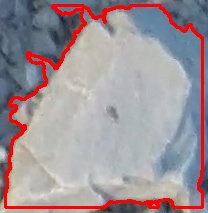
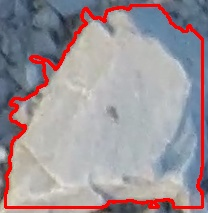
-

diff --git a/src/helpers.py b/src/helpers.py
@@ -51,9 +51,9 @@ def BrightnessAndContrastAuto(im_source, clipHistPercent=0):
     return dst
 
 
-def MorphClose(im_source, minThickess):
-    size = int(minThickess / 2)
-    size = 5
+def MorphClose(im_source, size):
+    # size = int(minThickess / 2)
+    # size = 10
     anchor = (size, size)
     element = cv2.getStructuringElement(cv2.MORPH_ELLIPSE, (2 * size + 1, 2 * size + 1), anchor)
 

diff --git a/src/draw_contours4.py b/src/draw_contours4.py
@@ -18,7 +18,8 @@ def onStonesTb(self):
 
     # imgray = cv2.cvtColor(blur, cv2.COLOR_BGR2GRAY)
 
-    saturation = BrightnessAndContrastAuto(blur, 0)
+    saturation = MorphClose(blur, 1)
+    saturation = BrightnessAndContrastAuto(saturation, 0)
     # cv2.imshow("BrightnessAndContrastAuto", saturation)
 
     thres = 100
